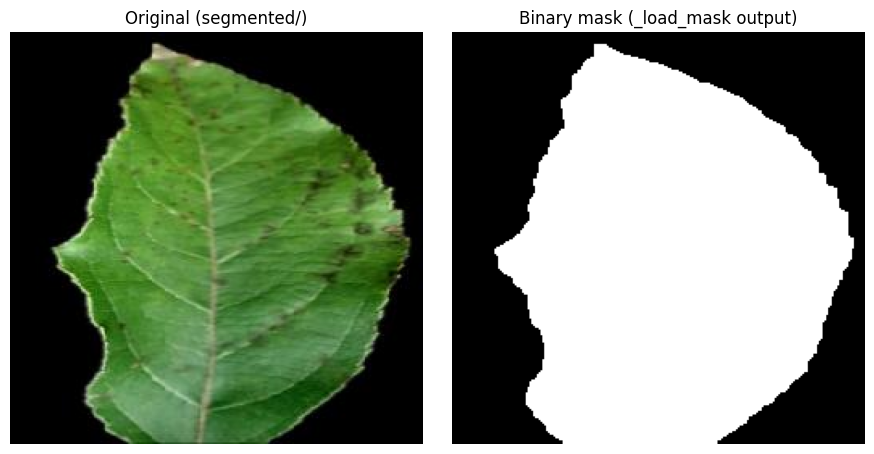
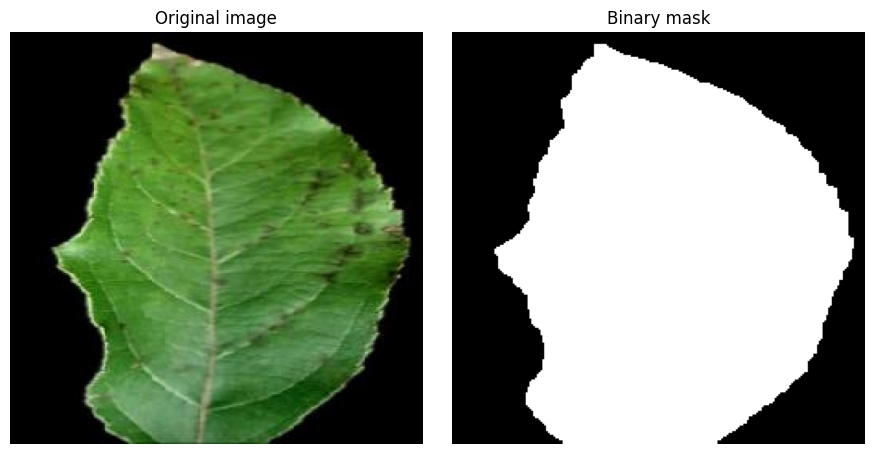
changed image

Changed region(s): [[0.587, 0.0308, 0.9268, 0.0617], [0.1236, 0.0308, 0.3707, 0.0617]]

diff --git a/README.md b/README.md
@@ -4,7 +4,7 @@ How much is the structure of the leaf explained by the structure alone? On avera
 This project uses the [PlantVillage dataset](https://www.kaggle.com/datasets/abdallahalidev/plantvillage-dataset) (54,000+ images, 38 plant/disease classes) for a 38 class classification task trained on a ResNet18 model[ResNet Architecture](https://arxiv.org/abs/1512.03385)
 
 RGB+Texture+Shape vs Binary Mask
-![Sample Image](comparison_outputs/sample_image.png.png)
+![Sample Image](comparison_outputs/sample_image.png)
 
 ## Results
 
